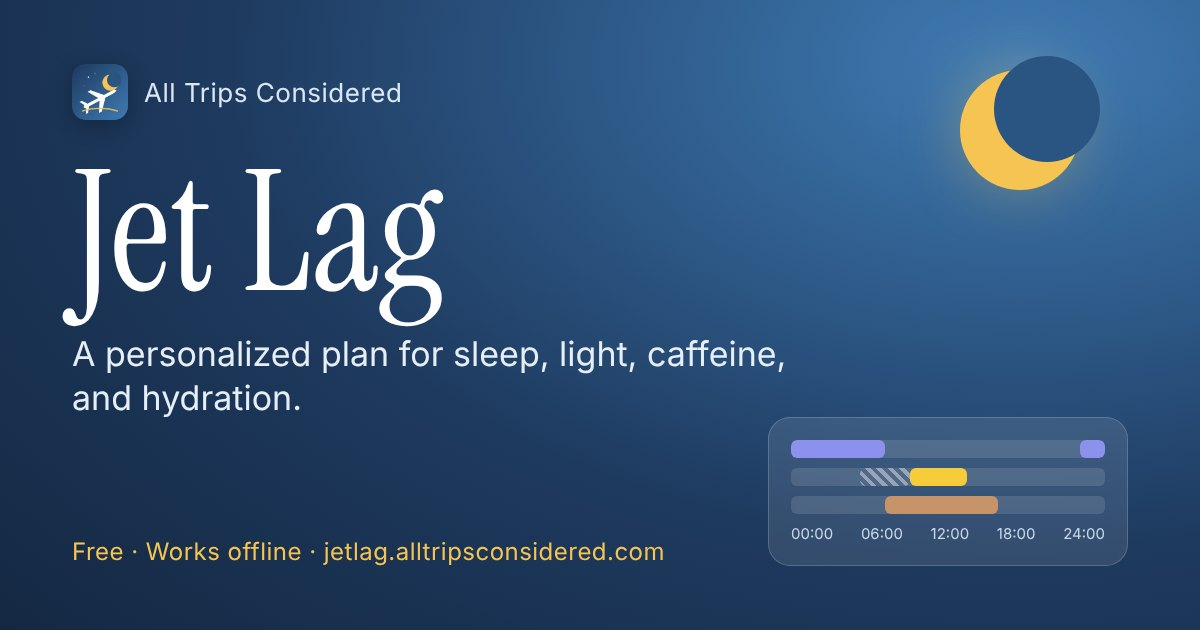
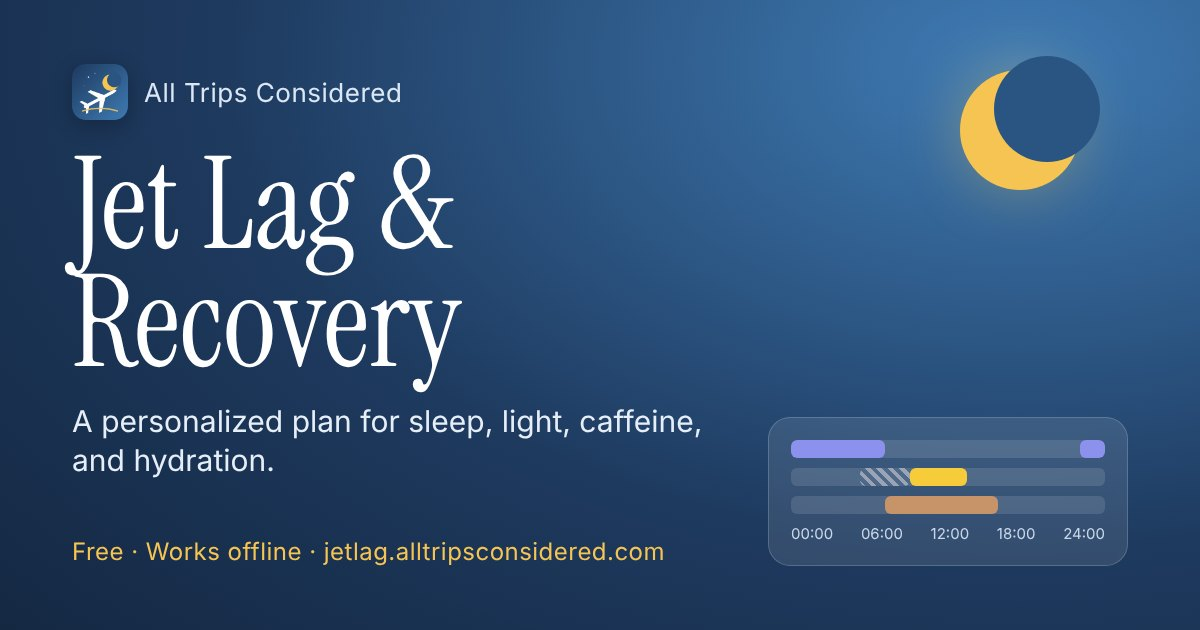
Use Jet Lag & Recovery as the official name, Jet Lag as the short name
The full name appears in the installed app's name, header, disclaimer,
notices, install banner, calendar export, structured data, preview image
and README. The short name Jet Lag is used for the Android and iPhone
home screen labels, and install steps mention it so people know what to
look for.

Claude-Session: https://claude.ai/code/session_01QiBPmuVG8X2s98ZKio6Xx2

Changed region(s): [[0.0308, 0.2413, 0.6475, 0.754]]

diff --git a/index.html b/index.html
@@ -22,22 +22,22 @@
   <meta property="og:image:type" content="image/jpeg">
   <meta property="og:image:width" content="1200">
   <meta property="og:image:height" content="630">
-  <meta property="og:image:alt" content="Jet Lag by All Trips Considered: a personalized plan for sleep, light, caffeine, and hydration.">
+  <meta property="og:image:alt" content="Jet Lag &amp; Recovery by All Trips Considered: a personalized plan for sleep, light, caffeine, and hydration.">
 
   <!-- Link previews: X (Twitter) -->
   <meta name="twitter:card" content="summary_large_image">
   <meta name="twitter:title" content="Jet Lag | All Trips Considered">
   <meta name="twitter:description" content="A free, personalized plan for sleep, light, caffeine, and hydration to help you recover from jet lag faster.">
   <meta name="twitter:image" content="https://jetlag.alltripsconsidered.com/assets/og-image.jpg">
-  <meta name="twitter:image:alt" content="Jet Lag by All Trips Considered: a personalized plan for sleep, light, caffeine, and hydration.">
+  <meta name="twitter:image:alt" content="Jet Lag &amp; Recovery by All Trips Considered: a personalized plan for sleep, light, caffeine, and hydration.">
 
   <!-- Structured data: describes the app to search engines -->
   <script type="application/ld+json">
   {
     "@context": "https://schema.org",
     "@type": "WebApplication",
-    "name": "Jet Lag",
-    "alternateName": "Jet Lag by All Trips Considered",
+    "name": "Jet Lag & Recovery",
+    "alternateName": "Jet Lag",
     "url": "https://jetlag.alltripsconsidered.com/",
     "description": "A free, personalized plan for sleep, light, caffeine, and hydration to help frequent flyers recover from jet lag faster. Works offline.",
     "image": "https://jetlag.alltripsconsidered.com/assets/og-image.jpg",
@@ -66,7 +66,7 @@
   <link rel="apple-touch-icon" href="assets/icons/icon-192.png">
   <meta name="apple-mobile-web-app-capable" content="yes">
   <meta name="apple-mobile-web-app-title" content="Jet Lag">
-  <meta name="application-name" content="Jet Lag">
+  <meta name="application-name" content="Jet Lag &amp; Recovery">
   <link rel="preload" href="assets/fonts/instrument-serif-latin.woff2" as="font" type="font/woff2" crossorigin>
   <link rel="stylesheet" href="css/styles.css">
   <script>
@@ -105,12 +105,12 @@
         </button>
       </div>
     </div>
-    <p class="tagline"><strong class="app-name">Jet Lag</strong>
+    <p class="tagline"><strong class="app-name">Jet Lag &amp; Recovery</strong>
       <span>Your planner for sleep, caffeine, light, and hydration.</span></p>
   </header>
 
   <noscript>
-    <p class="notice noscript">Jet Lag builds a personalized plan for sleep, light, caffeine, and hydration in your browser.
+    <p class="notice noscript">Jet Lag &amp; Recovery builds a personalized plan for sleep, light, caffeine, and hydration in your browser.
       Please turn on JavaScript to use it.</p>
   </noscript>
 
@@ -320,7 +320,7 @@
       <div id="pane-recovery" role="tabpanel" aria-labelledby="tab-recovery" class="pane" hidden></div>
 
       <p class="disclaimer">
-        Jet Lag provides general information based on published sleep and circadian research. It is not
+        Jet Lag &amp; Recovery provides general information based on published sleep and circadian research. It is not
         medical, health, or nutritional advice, and it does not create a doctor and patient relationship. Talk with a
         qualified health professional before changing your sleep, caffeine, fluid intake, or supplement use, especially
         if you are pregnant, take medication, or have a heart, kidney, sleep, or other medical condition.
@@ -351,7 +351,7 @@
   <!-- ============ INSTALL REMINDER ============ -->
   <div id="install-banner" class="install-banner" role="region" aria-label="Install the app" hidden>
     <img src="assets/icons/icon-192.png" alt="" width="40" height="40">
-    <p class="ib-text"><strong>Install Jet Lag</strong> <span id="install-banner-msg"></span></p>
+    <p class="ib-text"><strong>Install Jet Lag &amp; Recovery</strong> <span id="install-banner-msg"></span></p>
     <div class="ib-actions">
       <button type="button" id="install-banner-action" class="btn btn-sm"></button>
       <button type="button" id="install-banner-close" class="btn btn-ghost btn-sm" aria-label="Not now">Not now</button>
@@ -371,9 +371,9 @@
   <dialog id="legal-dialog" class="sheet legal" aria-labelledby="legal-h">
     <h2 id="legal-h">Disclaimer and limitation of liability</h2>
     <div class="legal-body">
-      <p><strong>Please read before using Jet Lag.</strong></p>
+      <p><strong>Please read before using Jet Lag &amp; Recovery.</strong></p>
       <h3>Not health or medical advice</h3>
-      <p>Jet Lag and everything it shows, including sleep times, light exposure, caffeine, melatonin,
+      <p>Jet Lag &amp; Recovery and everything it shows, including sleep times, light exposure, caffeine, melatonin,
         hydration, exercise, meal, and nap suggestions, are general information for educational purposes only.
         Nothing in this app is medical, health, nutritional, or professional advice, and it is not a substitute for
         advice, diagnosis, or treatment from a qualified health professional. Using this app does not create a doctor

diff --git a/js/ui/install.js b/js/ui/install.js
@@ -25,7 +25,7 @@ const MANUAL = {
     steps: [
       `Tap the <strong>Share</strong> button ${SHARE_ICON}. In Safari it is in the toolbar; in other browsers it may be in the address bar or menu.`,
       'Scroll down and tap <strong>Add to Home Screen</strong>.',
-      'Tap <strong>Add</strong>. Jet Lag appears on your Home Screen and works offline.',
+      'Tap <strong>Add</strong>. Jet Lag &amp; Recovery appears on your Home Screen as <strong>Jet Lag</strong> and works offline.',
     ],
   },
   android: {
@@ -34,7 +34,7 @@ const MANUAL = {
     steps: [
       `Open your browser menu ${MENU_ICON}.`,
       'Tap <strong>Add to Home screen</strong> or <strong>Install</strong>.',
-      'Confirm. Jet Lag appears on your Home screen and works offline.',
+      'Confirm. Jet Lag &amp; Recovery appears on your Home screen as <strong>Jet Lag</strong> and works offline.',
     ],
   },
   mac: {
@@ -43,7 +43,7 @@ const MANUAL = {
     steps: [
       'In the Safari menu bar, choose <strong>File</strong>.',
       'Choose <strong>Add to Dock</strong>, then <strong>Add</strong>.',
-      'Jet Lag opens from your Dock like any other app and works offline.',
+      'Jet Lag &amp; Recovery opens from your Dock like any other app and works offline.',
     ],
   },
 };

diff --git a/js/ui/ics.js b/js/ui/ics.js
@@ -28,14 +28,14 @@ export function exportIcs(p) {
     'SUMMARY:' + escText(summary), 'DESCRIPTION:' + escText(desc + ' ' + NOTE), 'END:VEVENT');
 
   for (const d of p.pre) {
-    add(sleepStart(d.date, d.bed, p.home.tz), p.sleepLen, 'Sleep (jet lag prep)', 'Jet Lag: pre-flight shift.');
+    add(sleepStart(d.date, d.bed, p.home.tz), p.sleepLen, 'Sleep (jet lag prep)', 'Jet Lag & Recovery: pre-flight shift.');
   }
   for (const d of p.days) {
     add(sleepStart(d.date, d.bed, p.dest.tz), d.night || p.sleepLen, 'Sleep in ' + p.dest.name,
-      `Jet Lag: last caffeine ${fmtTime(d.caff.cutoff)}.`);
+      `Jet Lag & Recovery: last caffeine ${fmtTime(d.caff.cutoff)}.`);
   }
 
-  const body = ['BEGIN:VCALENDAR', 'VERSION:2.0', 'PRODID:-//All Trips Considered//Jet Lag//EN',
+  const body = ['BEGIN:VCALENDAR', 'VERSION:2.0', 'PRODID:-//All Trips Considered//Jet Lag & Recovery//EN',
     'CALSCALE:GREGORIAN', ...events, 'END:VCALENDAR'].join('\r\n');
   const a = document.createElement('a');
   a.href = URL.createObjectURL(new Blob([body], { type: 'text/calendar' }));

diff --git a/sw.js b/sw.js
@@ -1,6 +1,6 @@
-/* Jet Lag service worker: offline-first app shell. */
+/* Jet Lag & Recovery service worker: offline-first app shell. */
 // Bump the version whenever any cached file changes so clients pick up the update.
-const CACHE = 'atc-v22';
+const CACHE = 'atc-v23';
 const ASSETS = [
   './',
   './index.html',

diff --git a/README.md b/README.md
@@ -1,8 +1,8 @@
-# Jet Lag
+# Jet Lag & Recovery
 
-By All Trips Considered. A progressive web app (PWA) that helps frequent flyers recover from jet lag. Enter your flight and normal sleep pattern, and it builds a day-by-day plan for sleep, light, caffeine, and hydration.
+By All Trips Considered. Its short name, **Jet Lag**, is used for home screen labels. A progressive web app (PWA) that helps frequent flyers recover from jet lag. Enter your flight and normal sleep pattern, and it builds a day-by-day plan for sleep, light, caffeine, and hydration.
 
-> **Not health advice.** Jet Lag provides general information for educational purposes only. It is not medical, health, or nutritional advice and does not replace a qualified health professional. The app is provided "as is," without warranties, and its creators are not liable for any damages arising from its use. See [Disclaimer](#disclaimer).
+> **Not health advice.** Jet Lag & Recovery provides general information for educational purposes only. It is not medical, health, or nutritional advice and does not replace a qualified health professional. The app is provided "as is," without warranties, and its creators are not liable for any damages arising from its use. See [Disclaimer](#disclaimer).
 
 ## Features
 
@@ -147,7 +147,7 @@ The site is served at `https://jetlag.alltripsconsidered.com/` (see `CNAME`). Th
 
 ## Disclaimer
 
-Jet Lag and its content are for general informational and educational purposes only. Nothing in the app is medical, health, nutritional, or professional advice, and using it does not create a doctor and patient relationship. Always consult a qualified health professional before changing your sleep schedule, caffeine or fluid intake, or before taking melatonin or any other supplement or medication. The app is not for emergencies.
+Jet Lag & Recovery and its content are for general informational and educational purposes only. Nothing in the app is medical, health, nutritional, or professional advice, and using it does not create a doctor and patient relationship. Always consult a qualified health professional before changing your sleep schedule, caffeine or fluid intake, or before taking melatonin or any other supplement or medication. The app is not for emergencies.
 
 The app is provided "as is" and "as available," without warranties of any kind, express or implied. To the fullest extent permitted by law, All Trips Considered and its creators, contributors, and affiliates are not liable for any direct, indirect, incidental, special, consequential, or punitive damages, or for any injury, illness, loss, or cost, arising from or related to use of, or reliance on, the app or its content. You use the app at your own risk.
 
